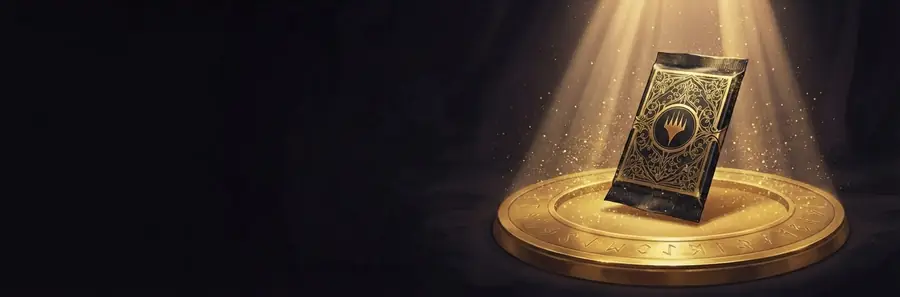
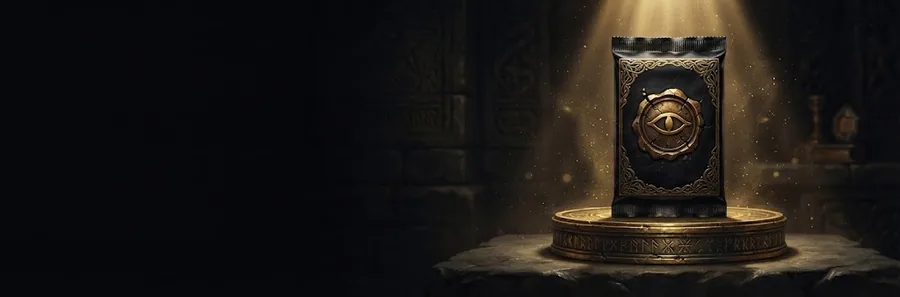
v386 : nouvelle bannière du booster premium (sans symbole d'une autre marque)
Claude-Session: https://claude.ai/code/session_01G3jW2e2fkjyWdrMoKXNbtm

diff --git a/sw.js b/sw.js
@@ -1,7 +1,7 @@
 // Service worker d'ABYSSAL : l'application et les données sont mises en cache
 // pour fonctionner hors ligne après une première visite. Incrémenter VERSION à
 // chaque publication pour que les joueurs reçoivent la mise à jour.
-const VERSION = 'abyssal-v385';
+const VERSION = 'abyssal-v386';
 const ART_CACHE = 'abyssal-media';  // images du jeu : gardées entre les versions
 const FONT_CACHE = 'abyssal-fonts';
 const CORE = [

diff --git a/js/config.js b/js/config.js
@@ -1,7 +1,7 @@
 // Configuration centrale du jeu : raretés, tables de tirage, boosters,
 // économie, variantes, progression. Toute la balance se règle ici.
 
-export const VERSION = 'v385'; // même numéro que sw.js : affiché dans Réglages > À propos
+export const VERSION = 'v386'; // même numéro que sw.js : affiché dans Réglages > À propos
 
 export const RARITIES = [
   { key: 'C',  name: 'Commune',     short: 'C',  color: '#A3ADBD' },

diff --git a/CLAUDE.md b/CLAUDE.md
@@ -22,7 +22,7 @@ Ce texte reprend tout ce qu'il faut savoir du projet. Ce fichier est lu automati
 - Le réseau de la session bloque github.io : pour vérifier la publication, passe par l'outil GitHub (déploiements Pages) ou demande une capture au propriétaire.
 
 ## 2. Routine de livraison
-1. Version : **ligne 4** de `js/config.js` **et** de `sw.js`, toujours le même numéro (`sed -i "4s/vX/vY/" js/config.js sw.js`). Actuellement **v385**.
+1. Version : **ligne 4** de `js/config.js` **et** de `sw.js`, toujours le même numéro (`sed -i "4s/vX/vY/" js/config.js sw.js`). Actuellement **v386**.
 2. Tests : `node --test tests/*.test.mjs` (228 tests, dont `tests/syntaxe.test.mjs` qui passe `node --check` sur chaque fichier de `js/` : les écrans ne sont importés par aucun autre test), `node tools/validate.mjs`. Si le combat ou l'équilibre change : `node tools/fuzz.mjs 300` (étage moyen ≈ 12 à 14 en normal).
 3. Vérification dans le navigateur avec Playwright (`/opt/node-tools/node_modules/playwright/index.mjs`, Chromium déjà installé), avec un serveur local `python3 -m http.server 8092` lancé dans le dossier. Tailles iPhone SE et iPhone 13. **L'écran d'ouverture attend un toucher** (« Touche l'écran pour entrer ») : dans les scripts, cliquer au milieu de l'écran (dans la fenêtre 390×664) avant tout le reste.
 4. Commit, push, réponse en français.
@@ -103,7 +103,7 @@ Ce texte reprend tout ce qu'il faut savoir du projet. Ce fichier est lu automati
 
 ## 5. Décisions déjà prises
 - v385 : figures Gemini des 5 nouveaux gardiens intégrées (sources `store/bosses/<clé>-source.jpg`, `assets/bosses/<clé>.webp`, ajoutées à `BOSS_FIG`, `BOSS_FIGS` et `sw.js`). `tools/cutout.py` échouait sur ces fonds blancs : nouvel outil **`tools/cutout-white.py source.jpg sortie.webp [--holes]`** (fond blanc relié au bord + trous blancs enfermés, bord dé-mélangé du blanc, hauteur 560). Vérifié sur les 10 gardiens, deux tailles d'écran.
-- v384 : **booster premium de nouveau en vente**, toujours affiché dans la boutique, **1000 éclats** (prix choisi par le propriétaire ; standard 400, faction 500, événement 550) ; les tickets (gardiens, niveaux, profondeurs) l'ouvrent toujours en priorité. `rewardOnly` retiré de `BOOSTERS.premium`. À refaire avant la publication : la bannière `assets/ui/bn-premium.webp` montre un sachet au symbole proche du logo de Magic: The Gathering (risque de refus par Apple, marque déposée).
+- v384 : **booster premium de nouveau en vente**, toujours affiché dans la boutique, **1000 éclats** (prix choisi par le propriétaire ; standard 400, faction 500, événement 550) ; les tickets (gardiens, niveaux, profondeurs) l'ouvrent toujours en priorité. `rewardOnly` retiré de `BOOSTERS.premium`. v386 : la bannière `assets/ui/bn-premium.webp`, dont le sachet portait un symbole proche du logo de Magic: The Gathering, est refaite (Gemini, sachet à l'œil dans un sceau, source `store/ui/bn-premium-source.jpg`). Règle : aucune image ne doit rappeler la marque d'un autre jeu.
 - v383 : **5 nouveaux gardiens** pour les étages 30 à 50 (`BOSS_ORDER` de 10 : étages 5-25 les cinq premiers, 30-50 les nouveaux, puis le cycle des dix ; toujours déchaînés à ces profondeurs) : Reine des Essaims `essaim` (`brood` → `swarm` : zone + poison ; phase 2 régénère 3 % par créature empoisonnée), Bourreau `bourreau` (`sentence` condamne la plus affaiblie → `execute` ×2, ×3 sous la moitié des PV, dans le vide si elle est en réserve ; +3 ATQ et 10 % de PV s'il tue), Chœur des Noyés `choeur` (`chant` → `lament` : zone, retire boucliers et bonus, −2 Ferveur ; phase 2 marée 4 % par tour, jamais mortelle, retenue par la Brisure), Seigneur des Chaînes `chaines` (`chain` : coup et gel « Enchaînée » ; phase 2 forge +1 ATQ par tour non brisé), Horloger `horloge` (`wind` note ses PV → `rewind` les lui rend, 25 % au plus ; phase 2 `tick2`, deux coups à 0,6). Moteur : `AOE_M`, `PREP`, listes `SINGLE`/`SPECIAL`/`BIG` ; écran : `IN_PIC`, `PREP_IT`, `BIG_IT`, `BOSS_SHOT`, pastille « Condamnée » ; décors `BOSS_ROOMS` (`js/ui/diorama.js`). Images `assets/ui/ph-<clé>.webp` absentes : masquées (`onerror`). **Figures peintes attendues** (prompts Gemini donnés le 17 octobre 2026, fond blanc, mi-corps) : à l'arrivée, `tools/cutout.py … 560` → `assets/bosses/<clé>.webp`, ajouter la clé à `BOSS_FIG` (`duel-ui.js`), `BOSS_FIGS` (`descent.js`) et à la liste des figures de `sw.js` ; vérifier les 10 figures. Tests `tests/gardiens2.test.mjs`.
 - v382 : **erreur de la v379 corrigée** : la figure du gardien, réglée en largeur (150 %), devenait immense pour une figure haute (le Roi sans Visage recouvrait la frise et les pastilles sur l'iPhone du propriétaire). Elle tient maintenant dans une boîte fixe de la carte (`width: 130%; height: 96%; object-fit: contain`, calée en bas), relief réduit (`translate: 0 -5%`, `scale: 1.08`, acolytes à 0,94). Règle : toute retouche des gardiens se vérifie sur les **5** figures (`K=roi,devoreur,eclipse,matriarche,architecte`) et sur au moins deux tailles d'écran.
 - v381 : jauge de vie **peinte** (le propriétaire trouvait la v380 « pas du tout esthétique ») : anneau Gemini de sang lumineux dans une rainure d'or (`assets/icons/hp-ring.webp` 192 px, source `store/ui/hp-ring-source.jpg`, centre 511,5/511, rayons 303 et 426,5 : découpé en anneau transparent) posé autour du médaillon (`.hpr`, `inset: -6%`) ; `::after` = anneau plein masqué en `conic-gradient` selon `--hpp`, `::before` = le même anneau éteint (gris sépia) pour la part perdue ; sous 30 % le sang pulse.
